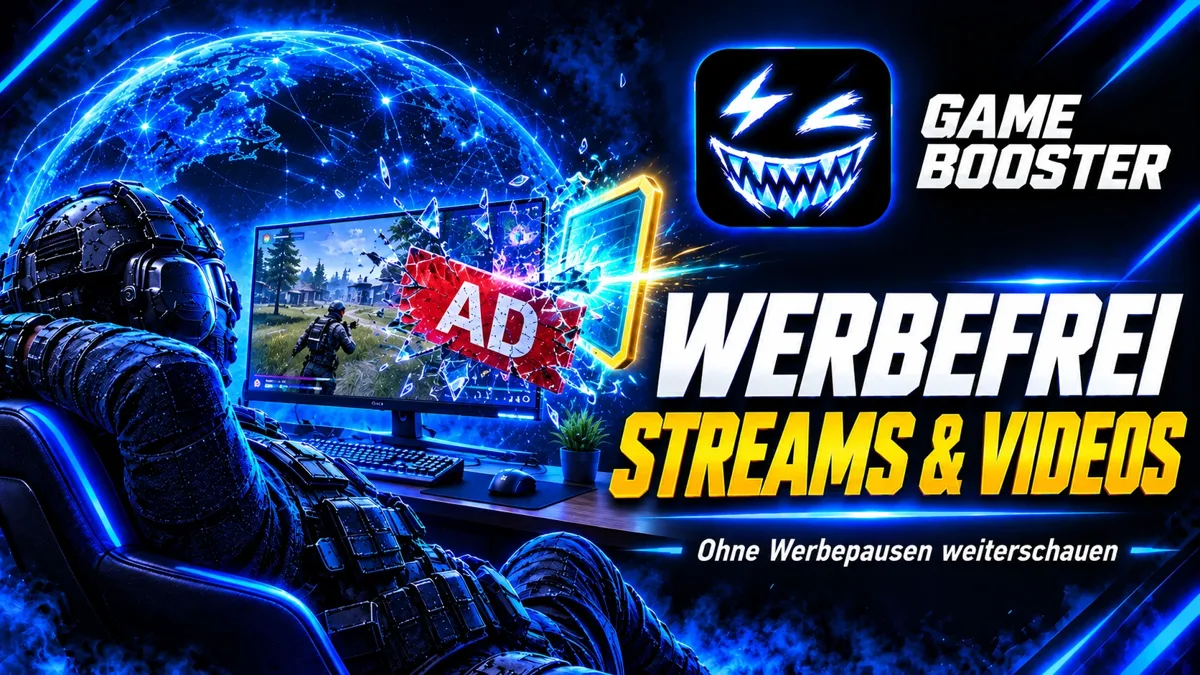
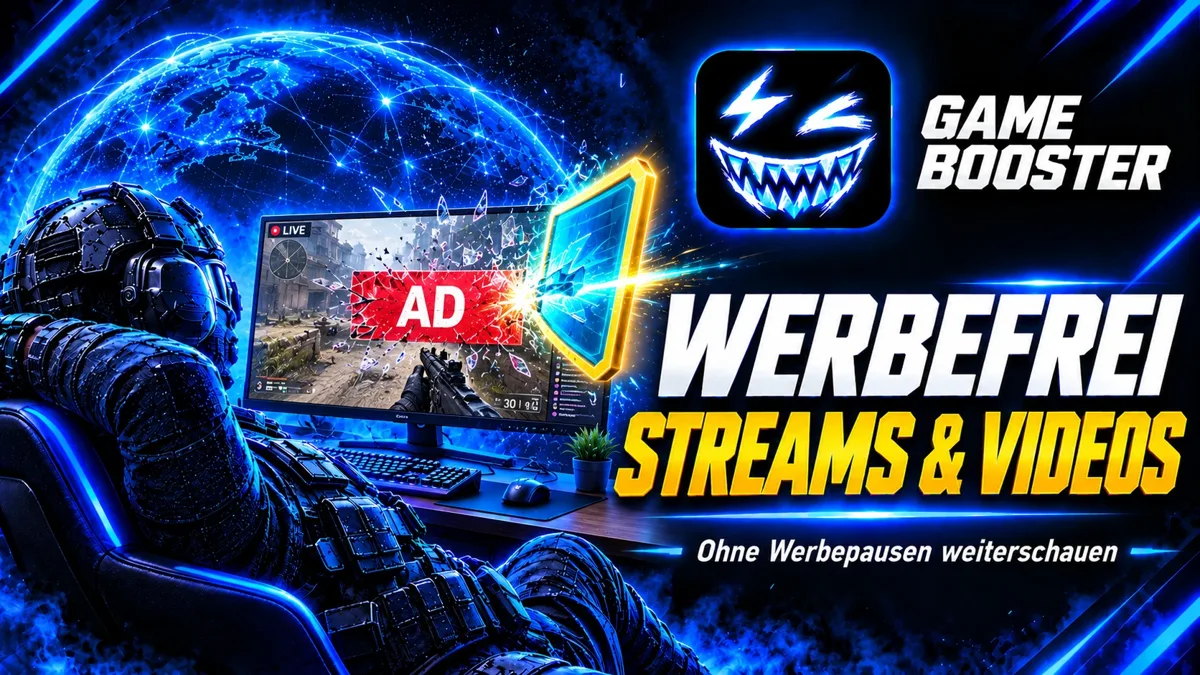
Startseite: neues Werbefrei-Kartenbild

diff --git a/js/index1.js b/js/index1.js
@@ -120,7 +120,7 @@ document.getElementById("shopGrid").innerHTML = SHOP.map(([a, t, s, p, on]) => I
   g.insertAdjacentHTML("beforeend", `<div class="sp-w"><div style="position:relative"><a class="sp-cr2" href="https://dmzcodex.com" target="_blank" rel="noopener" title="Kartendaten von DMZ Codex"><svg viewBox="0 0 20 24" width="15" height="18"><path d="M2 3a2 2 0 0 1 2-2h8l6 6v14a2 2 0 0 1-2 2H4a2 2 0 0 1-2-2z" fill="#f5c518"/><circle cx="6" cy="6" r="1.6" fill="#111"/><path d="M5 15l5-3.5 5 3.5M5 19.5l5-3.5 5 3.5" stroke="#111" stroke-width="2.2" fill="none"/></svg><span><small>Kartendaten</small><b>DMZ</b> CODEX</span></a><a class="sc" href="https://github.com/mustafa-aygoeren5566/game-booster-releases/releases/latest/download/GameBooster-Setup.exe"><img class="bgx" src="img/dmz-karte.webp?v=1" alt="DMZ-Karte" style="object-fit:cover" loading="lazy"><span class="st2" style="top:10px;bottom:auto">Gratis</span></a></div>
   <div class="sp-t">DMZ-Karte <em>Schlüssel, Loot &amp; Infos</em></div></div>`) }
 // Eigenes Produkt: GB Werbefrei (Browser-Erweiterung, separat verkauft)
-document.getElementById("shopGrid").insertAdjacentHTML("beforeend", `<div class="sp-w"><a class="sc wf" href="/werbefrei"><img class="bgx" src="img/werbefrei-karte.webp?v=1" alt="Werbefrei" style="object-fit:cover" loading="lazy"><span class="st2" style="top:10px;bottom:auto">Neu</span></a>
+document.getElementById("shopGrid").insertAdjacentHTML("beforeend", `<div class="sp-w"><a class="sc wf" href="/werbefrei"><img class="bgx" src="img/werbefrei-karte.webp?v=2" alt="Werbefrei" style="object-fit:cover" loading="lazy"><span class="st2" style="top:10px;bottom:auto">Neu</span></a>
   <div class="sp-t">Werbefrei <em class="wfe">Streams &amp; Videos ohne Werbung</em></div></div>`);
 
 // PayPal direkt im Kauf-Fenster (Kunde bleibt auf der Seite).

diff --git a/index.html b/index.html
@@ -794,7 +794,7 @@ details{position:relative}details[open]{border-color:#2f4f8a}
 
 <script src="world.js?v=4"></script>
 <button type="button" id="toTop" aria-label="Nach oben"><svg viewBox="0 0 24 24" fill="none" stroke="currentColor" stroke-width="2.4" stroke-linecap="round" stroke-linejoin="round"><path d="M12 19V5M5.5 11.5 12 5l6.5 6.5"/></svg></button>
-<script src="js/index1.js?v=57"></script>
+<script src="js/index1.js?v=58"></script>
 <script src="js/index2.js?v=1"></script>
 <a class="petab" href="https://www.provenexpert.com/game-booster-vpn/zam6/" target="_blank" rel="noopener" aria-label="Game Booster VPN auf ProvenExpert bewerten"><b class="pst">★<br>★<br>★<br>★<br>★</b><span>Bewerte uns</span><small>auf ProvenExpert</small></a>
 <script src="js/features.js?v=9"></script>
